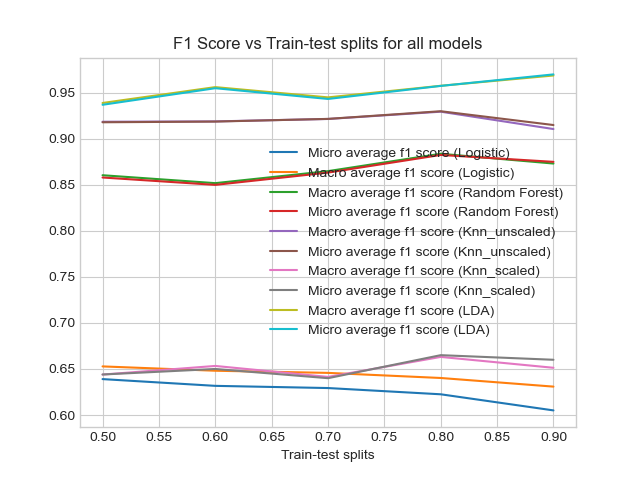
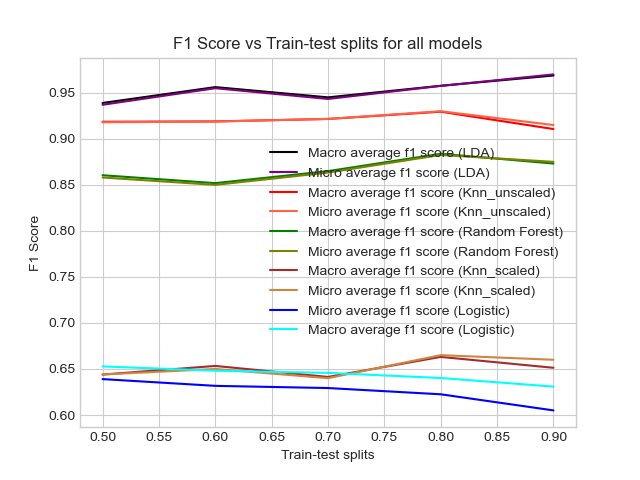
Editing the F1 Score graph (Distinctive colours)

diff --git a/main.py b/main.py
@@ -17,7 +17,7 @@ from Knn import ideal_k_scaled, ideal_k_unscaled
 
 def main(ifname):
     plt.style.use('seaborn-whitegrid')
-    Knn_hyperparameters(ifname)
+    
     #Correlation Heatmap
     corrleation_heatmap(ifname)
     #Random Forest graphs:
@@ -26,6 +26,7 @@ def main(ifname):
     #Knn graphs and prints ideal k:
     ideal_k_scaled(ifname)
     ideal_k_unscaled(ifname)
+    Knn_hyperparameters(ifname)
     error_function_Knn(ifname)
 
 #Create 3 empty lists for each of the models, in order to append later values in order to create a plot.
@@ -92,17 +93,17 @@ def main(ifname):
     plt.savefig('plots/Accuracy Graph.png')
     plt.close()
 
-   
-    plt.plot(nvals, microf1_scores, label='Micro average f1 score (Logistic)')
-    plt.plot(nvals, macrof1_scores, label= 'Macro average f1 score (Logistic)')
-    plt.plot(nvals, macrof1_RF, label= 'Macro average f1 score (Random Forest)')
-    plt.plot(nvals, microf1_RF, label= 'Micro average f1 score (Random Forest)')
-    plt.plot(nvals, macro_f1_Knnl, label= 'Macro average f1 score (Knn_unscaled)')
-    plt.plot(nvals, micro_f1_Knnl, label= 'Micro average f1 score (Knn_unscaled)')
-    plt.plot(nvals, macro_f1_Knnl_scaled, label= 'Macro average f1 score (Knn_scaled)')
-    plt.plot(nvals, micro_f1_Knnl_scaled, label= 'Micro average f1 score (Knn_scaled)')
     plt.plot(nvals, macro_f1_LDA, label= 'Macro average f1 score (LDA)', color='black')
     plt.plot(nvals, micro_f1_LDA, label= 'Micro average f1 score (LDA)', color='purple')
+    plt.plot(nvals, macro_f1_Knnl, label= 'Macro average f1 score (Knn_unscaled)', color='red')
+    plt.plot(nvals, micro_f1_Knnl, label= 'Micro average f1 score (Knn_unscaled)', color='tomato')
+    plt.plot(nvals, macrof1_RF, label= 'Macro average f1 score (Random Forest)', color='green')
+    plt.plot(nvals, microf1_RF, label= 'Micro average f1 score (Random Forest)', color='olive')
+    plt.plot(nvals, macro_f1_Knnl_scaled, label= 'Macro average f1 score (Knn_scaled)', color='brown')
+    plt.plot(nvals, micro_f1_Knnl_scaled, label= 'Micro average f1 score (Knn_scaled)', color='peru')
+    plt.plot(nvals, microf1_scores, label='Micro average f1 score (Logistic)', color='blue')
+    plt.plot(nvals, macrof1_scores, label= 'Macro average f1 score (Logistic)', color='cyan')
+    
     plt.xlabel('Train-test splits')
     plt.ylabel('F1 Score')
     plt.title('F1 Score vs Train-test splits for all models')
